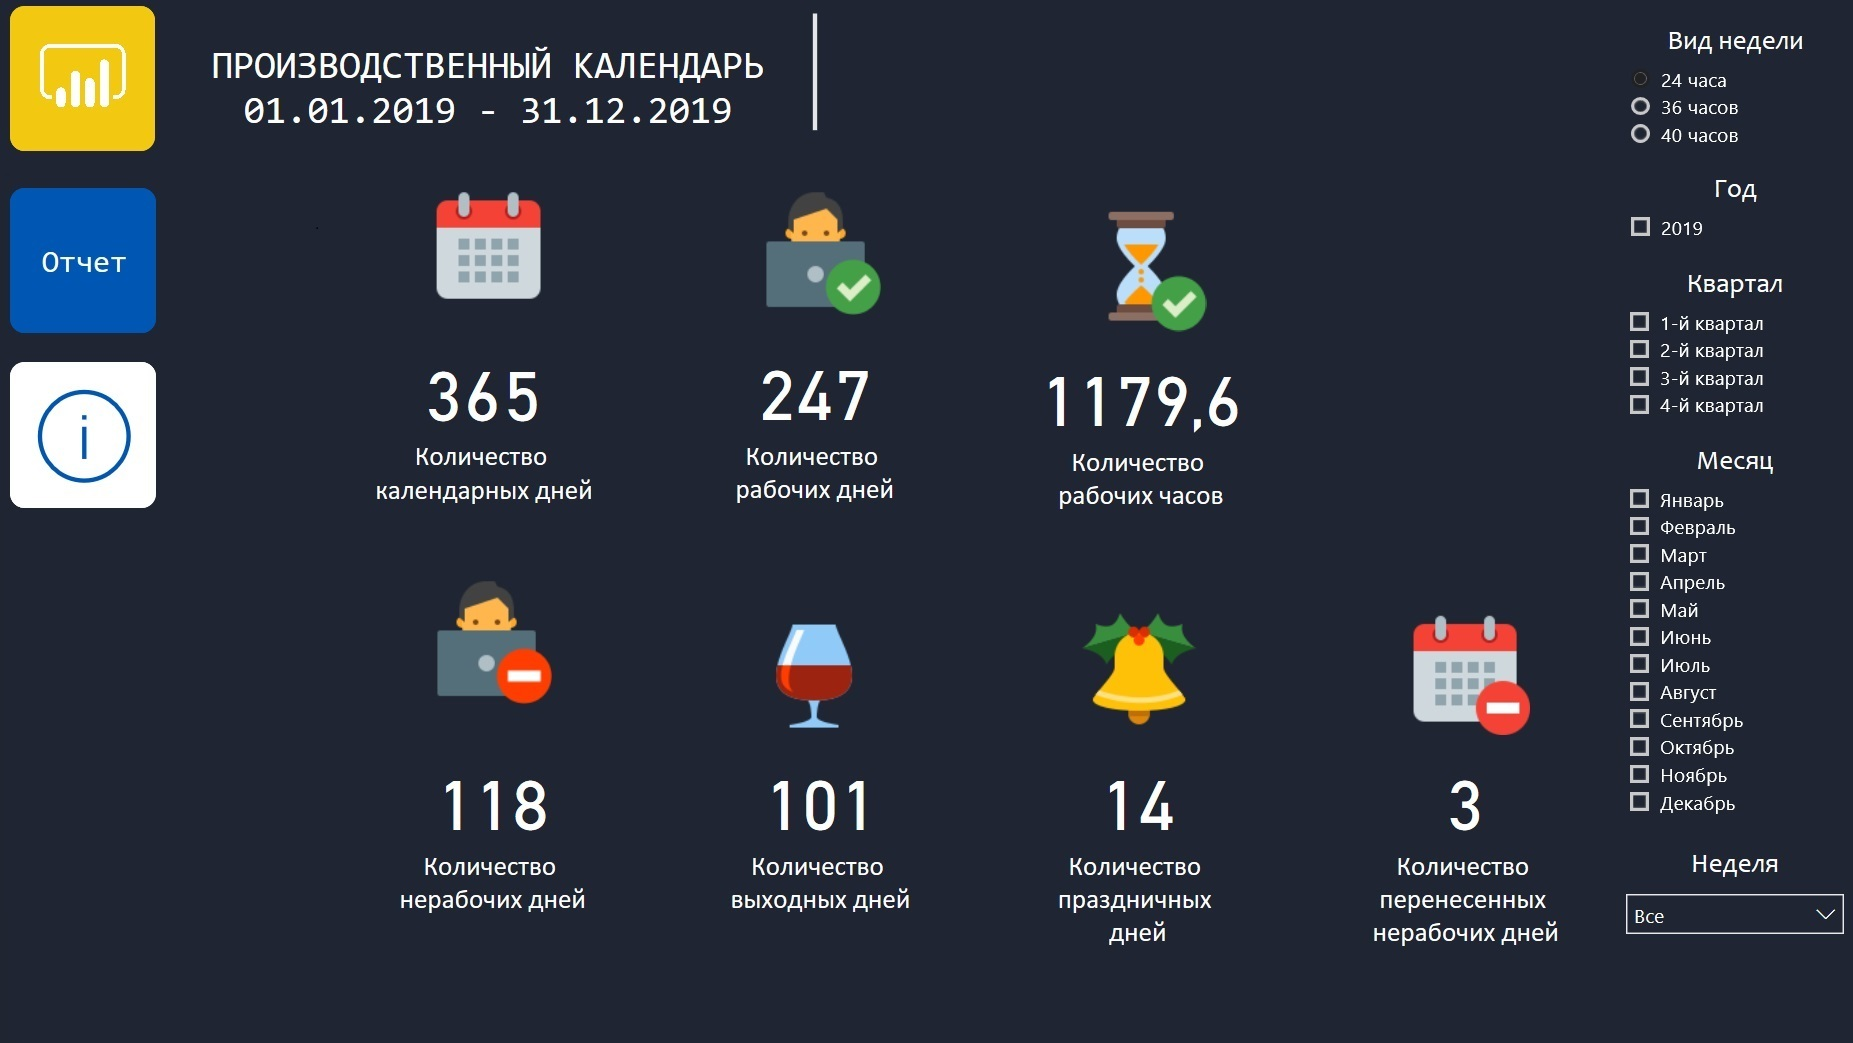
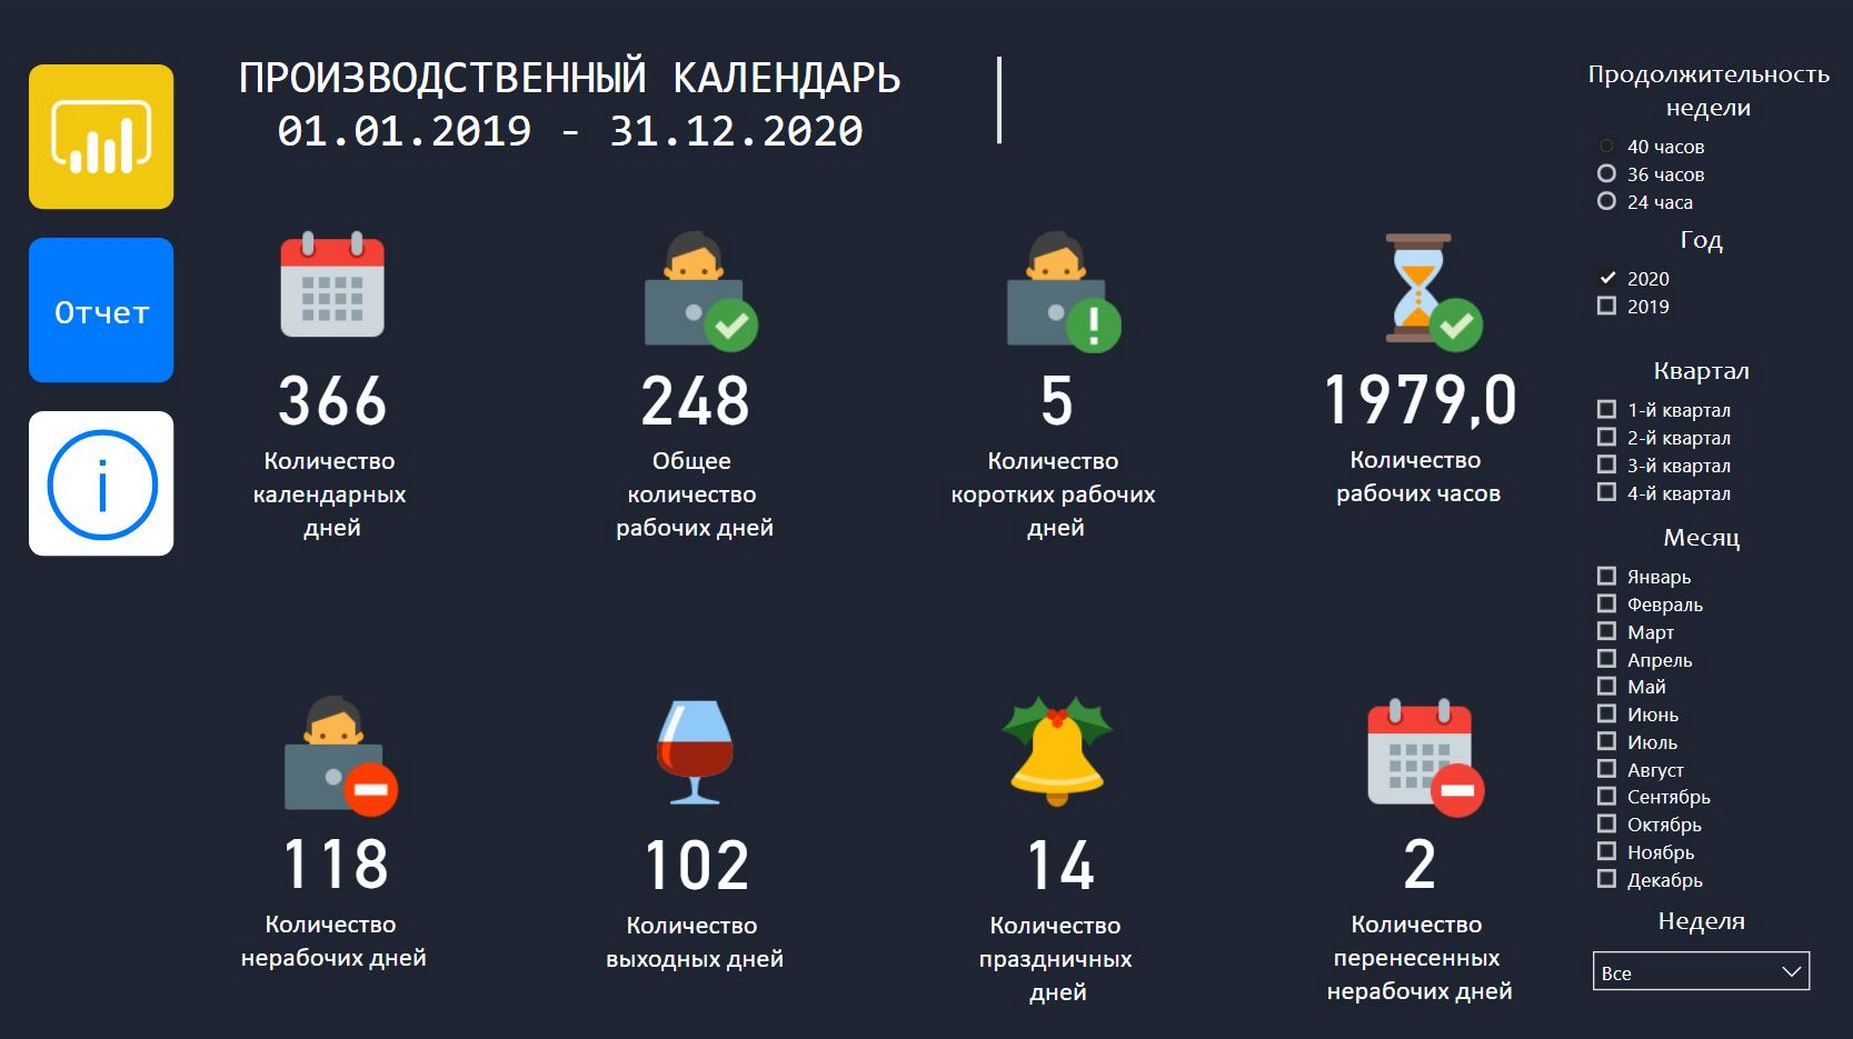
07.04.2020_1

diff --git a/docs/ru/blog/dev_001/index.html b/docs/ru/blog/dev_001/index.html
@@ -264,6 +264,16 @@
 <p><em>P.S. На фото я мелкий, но про Power BI уже был наслышан.</em></p>
 </blockquote>
 
+<p><strong>Разработка была обновлена 07 апреля 2020 года:</strong></p>
+
+<p><strong><li></strong>календарь теперь может включать несколько лет;*</p>
+
+<p><strong><li></strong>скорректирован расчет &ldquo;плавающего понедельника&rdquo;, когда этот день может быть выходным, но не праздником, в зависимости от того, на какой день выпадает предшествующий праздник;</p>
+
+<p><strong><li></strong>выделены сокращенные рабочие дни;</p>
+
+<p><strong><li></strong>переделана навигация по страницам.</p>
+
 <p><strong>ДЛЯ ЛЮБИТЕЛЕЙ ПОНАЖИМАТЬ НА КНОПОЧКИ</strong></p>
 
 <iframe width="800" height="600" src="https://app.powerbi.com/view?r=eyJrIjoiNWI1YWJmMTItM2NlZS00ODlkLTlhZmUtYmMwZjhkMTg1NzM3IiwidCI6IjE4YjFiOTZhLTk0MTQtNDE3MC1iNmNhLTZkODU3NTJlNTZmOCIsImMiOjZ9" frameborder="0" allowFullScreen="true"></iframe>

diff --git a/content/blog/Dev_001.ru.md b/content/blog/Dev_001.ru.md
@@ -113,6 +113,18 @@ author: Smile
 >
 > *P.S. На фото я мелкий, но про Power BI уже был наслышан.*
 
+
+**Разработка была обновлена 07 апреля 2020 года:**
+
+**<li>**календарь теперь может включать несколько лет;*
+
+**<li>**скорректирован расчет "плавающего понедельника", когда этот день может быть выходным, но не праздником, в зависимости от того, на какой день выпадает предшествующий праздник;
+
+**<li>**выделены сокращенные рабочие дни;
+
+**<li>**переделана навигация по страницам.
+
+
 **ДЛЯ ЛЮБИТЕЛЕЙ ПОНАЖИМАТЬ НА КНОПОЧКИ**
 
 <iframe width="800" height="600" src="https://app.powerbi.com/view?r=eyJrIjoiNWI1YWJmMTItM2NlZS00ODlkLTlhZmUtYmMwZjhkMTg1NzM3IiwidCI6IjE4YjFiOTZhLTk0MTQtNDE3MC1iNmNhLTZkODU3NTJlNTZmOCIsImMiOjZ9" frameborder="0" allowFullScreen="true"></iframe>
